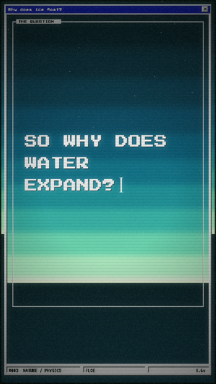
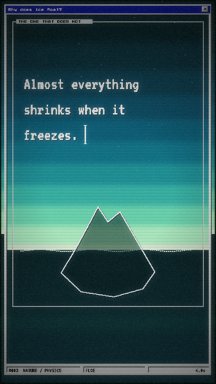
vid: #003 intro reworked -- the narration IS the headline, plus an outline
Only the ice piece. honey and halloumi keep the old intro until this one is
looked at.

The question card was wrong for one reason: it spelled out SO WHY DOES WATER
EXPAND? for four seconds while the narrator was saying "Almost everything
shrinks when it freezes." Two unrelated texts at once, in a piece whose whole
rule is that the screen says what the voice is saying. And it was slow because
one short sentence had been stretched to fill a beat.

- The headline is now the narration itself: 34px VT323, word-gated on the
  measured onsets, with the caret. One sentence at a time. Nothing is ever on
  screen that the voice is not saying.
- The question does not type. It SNAPS, inverse video, in the 1.4s of silence
  after the last word and before the wipe, with a phosphor flash.
- An outlined iceberg sits in the water: a shape, not a chart -- no axis, no
  tag, no number. Most of it below the waterline, which an ice piece may as
  well get for free. outlineShape() draws a dark halo then the rim, both as
  pixel runs; a single pass vanished where the shape crossed the bright band
  at the horizon, and a canvas stroke would antialias.
- The sun goes down across the last sentence, so by the scene change the frame
  already IS the dark field it cuts to. The wipe stops being a cut.
- A SPOT can name its own rest. The field was documented and then ignored, so
  the only option was "one line below what it just typed" -- which is the next
  line of whatever it just typed.
[…]

diff --git a/docs/vid/ice/piece.js b/docs/vid/ice/piece.js
@@ -53,10 +53,14 @@ const SENT={
 /* every element's anchor, named once and shared with the pointer.
    Written against MIDY -- see CATHODE-DESK.md, "Vertical composition". */
 const L={
-  // SHRINK -- the vibrant one. A typed question on the sky and nothing else:
-  // no diagram competes with the sunset, and the blackboard beats land harder
-  // for having a title card in front of them.
-  shr:{ q:['SO WHY DOES','WATER','EXPAND?'], y:MIDY-57, horizon:MIDY+240 },
+  // SHRINK -- the vibrant one. THE NARRATION IS THE HEADLINE: every word on
+  // screen is the word being spoken on that frame, which is the rule the rest
+  // of the piece runs on and the one a pre-written title card broke. The
+  // question is not typed at all -- it SNAPS, in the gap after the speech.
+  shr:{ q:['SO WHY DOES','WATER','EXPAND?'], hy:MIDY-176, wl:MIDY+174,
+        rest:[PX+318,MIDY+14],
+        berg:[[150,500],[176,452],[196,414],[216,444],[240,424],[266,468],
+              [284,500],[310,544],[286,578],[228,594],[162,584],[122,546]] },
   // CAGE -- the same 20 molecules, crowded then locked open
   cage:{ x:PX+68, y:MIDY-170, gx:86, gy:72, cols:4, rows:5, tag:MIDY+174 },
   // WEIGH -- 1 cube = 50 grams per litre, so 1000 is 20 cubes and 917 is 18
@@ -71,7 +75,7 @@ const L={
 /* ===== THE POINTER TRACK ===== */
 const SPOTS=[
   {n:0,  x:DLG[0]+54, y:DLG[1]+30, s:14},
-  {n:1,  x:IL-6, y:L.shr.y, s:26},
+  {n:1,  x:IL+2, y:L.shr.hy, s:34, r:L.shr.rest},
   {n:5,  x:PX+10, y:CAPY, s:CAPSZ},
   {n:8,  x:PX+10, y:CAPY, s:CAPSZ},
   {n:10, x:PX+10, y:CAPY, s:CAPSZ},
@@ -154,7 +158,7 @@ function explainer(ctx,W2,Hh,t){
   const CLICK=VO[15].z+0.52, SHUT=CLICK+0.15;
 
   let boost=1;
-  if(t>VO[2].z&&t<VO[2].z+0.22)boost=1.40;         // the question completing
+  if(t>VO[2].z+0.25&&t<VO[2].z+0.47)boost=1.55;    // the question snapping in
   if(t>wordAt(8,0)&&t<wordAt(8,0)+0.25)boost=1.45;
   if(t>wordAt(12,13)&&t<wordAt(12,13)+0.22)boost=1.35;
 
@@ -187,10 +191,31 @@ function explainer(ctx,W2,Hh,t){
        and the whole first half of the piece in one picture. --- */
     if(T<BEAT.CAGE.sc){
       const S=L.shr;
-      introSky(CX,CY,CWd,CHd,T,CHd-(S.horizon-CY));
-      groupBox(BX,BY,BW,BH,'THE QUESTION');
-      const q=questionCard(S.q,t,wordAt(1,0),VO[2].z,S.y,26,44,BEAT.CAGE.sc);
-      if(q) CARET=q;
+      introSky(CX,CY,CWd,CHd,T,CHd-(S.wl-CY));
+      groupBox(BX,BY,BW,BH,'THE ONE THAT DOES NOT');
+      // the sea, and the thing sitting in it. An outline, not a chart: no
+      // axis, no tag, no number -- a shape you recognise in a quarter second.
+      B.fillStyle=P.ice;
+      for(let x=IL;x<IR;x+=4)B.fillRect(x,S.wl+Math.round(Math.sin(M*2.1+x*0.06)*2),3,2);
+      const lit=H.lerp(0.40,1,H.clamp((M-BEAT.SHRINK.sc)/3.4));
+      const bb=outlineShape(S.berg,P.ink,H.rgba(H.hex(P.paper),lit),0.55);
+      if(GBOX)GBOX.push({x:bb.x,y:bb.y,w:bb.w,h:bb.h,k:'berg'});
+      // the sun goes down ACROSS the last sentence, so by the scene change the
+      // frame already is the dark field it cuts to. The wipe stops being a cut.
+      const dim=H.clamp((M-VO[2].a)/(BEAT.CAGE.sc-VO[2].a))*0.78;
+      if(dim>0){B.fillStyle=H.rgba(H.hex(P.ink),dim);B.fillRect(CX+2,CY+2,CWd-4,CHd-4);}
+      const qAt=VO[2].z+0.25;
+      if(t<qAt){
+        // one sentence at a time, word-gated on its MEASURED onsets, with the
+        // caret. 34px VT323 fits 20 characters across, which is what sets the wrap.
+        if(t<VO[2].t[0]) typeWrap(1,IL+6,S.hy,34,P.paper,P.ink,'"VT323"',20);
+        else             typeWrap(2,IL+6,S.hy,34,P.paper,P.ink,'"VT323"',20);
+      } else {
+        // the question SNAPS, inverse video, in the 1.4s of silence before the
+        // wipe. Nothing slow, and never on screen against a different sentence.
+        rect(IL,S.hy-10,IR-IL,S.q.length*44+14,P.paper);
+        S.q.forEach((ln,i)=>px(ln,IL+10,S.hy+i*44,26,P.ink));
+      }
     }
 
     /* --- CAGE --- */
@@ -408,7 +433,7 @@ function buildScore(){
   // the question card types across sentences 1-2, so every word of them blips
   [0,1,2,5,8,10,13,14,15].forEach(n=>VO[n].t.forEach((tt,i)=>add(tt,'blip',i)));
   const bar=(t0,t1,cubes,step)=>{for(let i=0;i<cubes;i+=step)add(t0+(i/cubes)*(t1-t0),'knock',i);};
-  add(VO[2].z,'zap');                              // the question lands, then the wipe
+  add(VO[2].z+0.25,'zap'); add(VO[2].z+0.25,'mos'); // the question snapping in
   bar(w(4,0), w(4,0)+1.20, 20, 4);                 // the cage locking
   add(w(4,5),'draw'); add(w(4,13),'tag');
   bar(w(6,6), w(6,6)+1.15, 20, 4);                 // the two litres

diff --git a/docs/vid/cathode-lib.js b/docs/vid/cathode-lib.js
@@ -447,6 +447,30 @@ function wipeStage(CX,CY,CWd,CHd){ rect(CX+2,CY+2,CWd-4,CHd-4,P.ink); }
    whole reason the sky is there. Left-aligned, because typing reads from a
    margin and a caret on the end of a centred line wanders.
    Returns where the caret belongs, for the caller to hand to CARET. */
+/* An outlined silhouette: a shape, not a chart. Filled dark so the sky reads
+   through it, with a hard 2px rim drawn as pixel runs -- a canvas stroke
+   antialiases, and nothing else in this medium does. Returns its bounding box
+   so the caller can register it. */
+function outlineShape(pts,fill,rim,a){
+  B.fillStyle=H.rgba(H.hex(fill),a===undefined?0.58:a);
+  B.beginPath(); pts.forEach((q,i)=>i?B.lineTo(q[0],q[1]):B.moveTo(q[0],q[1]));
+  B.closePath(); B.fill();
+  // Two passes, like pxShadow: a dark halo then the rim. One pass vanished
+  // wherever the shape crossed the bright band at the horizon.
+  [[1,'#0a0618'],[0,null]].forEach(([o,c])=>{
+    B.fillStyle=c||rim;
+    for(let i=0;i<pts.length;i++){
+      const a0=pts[i], b0=pts[(i+1)%pts.length];
+      const n=Math.max(1,Math.round(Math.hypot(b0[0]-a0[0],b0[1]-a0[1])));
+      for(let k=0;k<=n;k++)B.fillRect(Math.round(a0[0]+(b0[0]-a0[0])*k/n)-1+o,
+                                     Math.round(a0[1]+(b0[1]-a0[1])*k/n)-1+o,2,2);
+    }
+  });
+  const xs=pts.map(q=>q[0]), ys=pts.map(q=>q[1]);
+  return {x:Math.min(...xs)-1,y:Math.min(...ys)-1,
+          w:Math.max(...xs)-Math.min(...xs)+3,h:Math.max(...ys)-Math.min(...ys)+3};
+}
+
 function questionCard(lines,t,t0,t1,y,size,gap,until){
   const sz=size||26, gp=gap||44, x=IL+8;
   const total=lines.reduce((a,l)=>a+l.length+1,0)-1;

diff --git a/docs/vid/cathode-run.js b/docs/vid/cathode-run.js
@@ -25,10 +25,13 @@ const PTRACK=(()=>{
             x:S.first.x+3, y:S.first.y+Math.round(S.first.s*0.55), c:1});
     SESSION_SPANS.push({a:VO[S.first.n].t[0], z:VO[S.lastN].z+0.45,
                         x:S.first.x, y:S.first.y, s:S.first.s});
-    pending.push(S.first.y>=CAPY
-      ? {t:+(VO[S.lastN].z+0.55).toFixed(3), x:CAPREST[0], y:CAPREST[1]}
-      : {t:+(VO[S.lastN].z+0.55).toFixed(3),
-         x:S.first.x+8, y:S.first.y+Math.round(S.first.s)+28});
+    // a SPOT may name its own rest. The field was documented and then ignored,
+    // so "one line below what it just typed" was the only option -- which is
+    // the next line of whatever it just typed.
+    const rt=+(VO[S.lastN].z+0.55).toFixed(3);
+    pending.push(S.first.r ? {t:rt, x:S.first.r[0], y:S.first.r[1]}
+      : S.first.y>=CAPY ? {t:rt, x:CAPREST[0], y:CAPREST[1]}
+      : {t:rt, x:S.first.x+8, y:S.first.y+Math.round(S.first.s)+28});
   });
   P.push({t:+(VO[0].z+0.12).toFixed(3), x:OK_DIALOG.x, y:OK_DIALOG.y, c:1});
   // LAST sentence, not sentence 17: honey has 19, halloumi 18, ice 16. A
